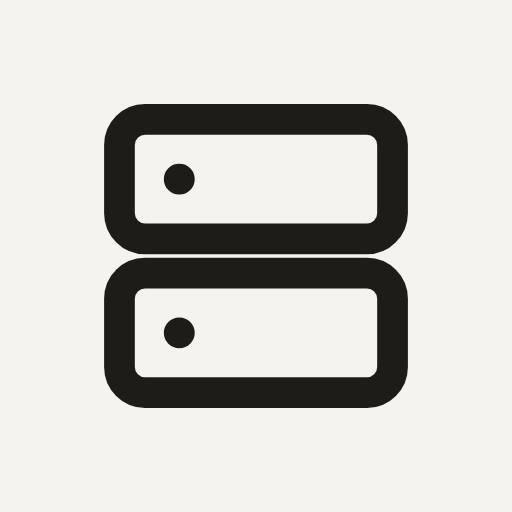
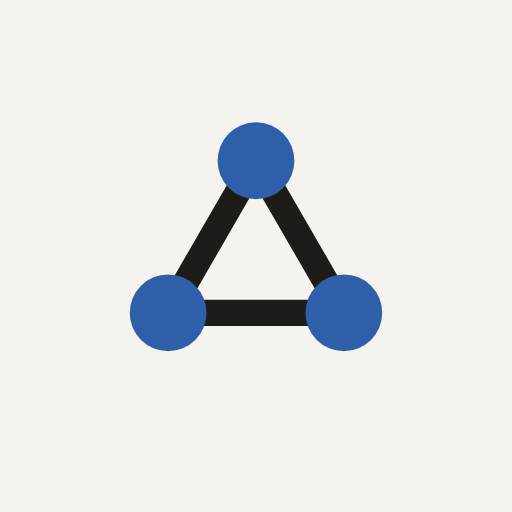
feat(brand): a collaboration mark across the app, the wiki, and the README
Three blue nodes joined in a triangle, peers rather than spokes: agents working together. It replaces the two-row icon in web/icon.svg and the three PWA icons, and is mirrored in wiki-theme/ for the docs site. The palette gate no longer reads a raster icon as text, where a PNG's bytes had spelled a hex colour by chance.

Changed region(s): [[0.1875, 0.1875, 0.8125, 0.8125], [0.3125, 0.3125, 0.4062, 0.4062]]

diff --git a/DESIGN.md b/DESIGN.md
@@ -18,6 +18,24 @@ something waits on you, never alarming. Warm paper in light, warm charcoal in
 dark, one humanist sans, monospace only for literal data. Every number shown
 is real.
 
+## Identity
+
+The mark is three blue nodes joined in a triangle: agents working together, as
+peers rather than spokes. It is drawn from the tokens, `--accent` for the nodes
+and `--ink` for the connections, on a `--bg` ground. One shape at every size: it
+holds as a 16px favicon and as a 512px app icon, and it carries no text, so it
+never depends on a language.
+
+The tile is the mark's ground. The app icon is a full-bleed `--bg` square,
+because the platform masks it; the wiki's brand mark is a rounded tile with a
+`--line` hairline, because it sits on a page. The maskable app icon holds the
+mark inside the safe circle rather than at full scale, so a launcher mask never
+cuts it.
+
+The mark ships as `web/icon.svg` and the three `web/icon-*.png` icons, and the
+docs site mirrors it in `wiki-theme/assets/brand-mark.svg` and
+`wiki-theme/assets/favicon.svg`.
+
 ## Tokens
 
 `web/tokens.css` is the design's token file, shipped verbatim except for the

diff --git a/README.md b/README.md
@@ -1,4 +1,4 @@
-# Agent Hub
+# <img src="web/icon.svg" width="36" height="36" alt=""> Agent Hub
 
 A local-first operations layer for AI agents and their humans, shipped as one
 lean binary or container on a homelab or NAS node. The node is the cloud.
